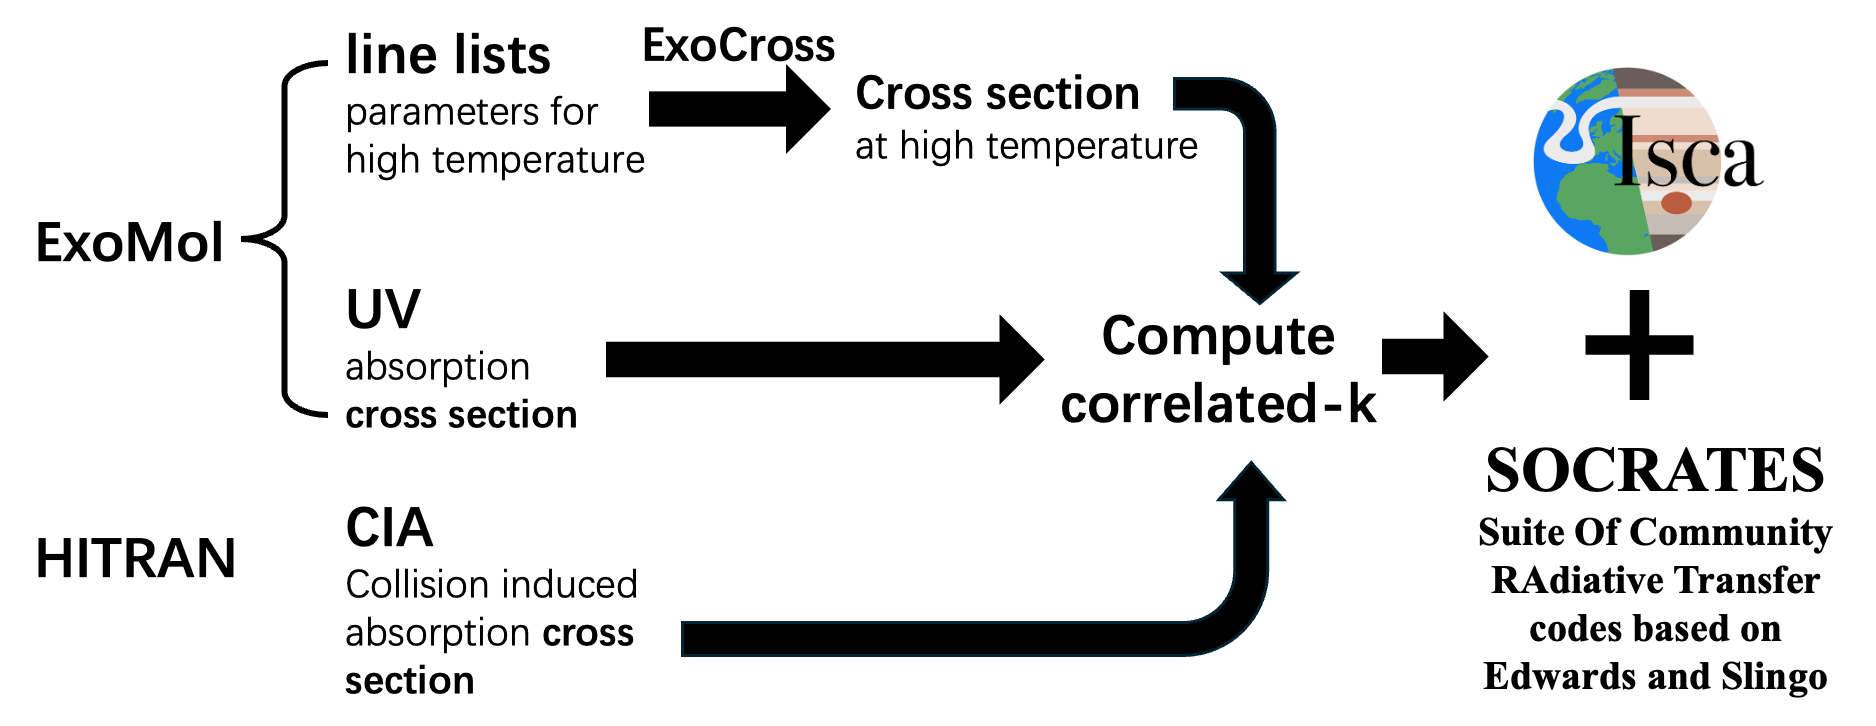
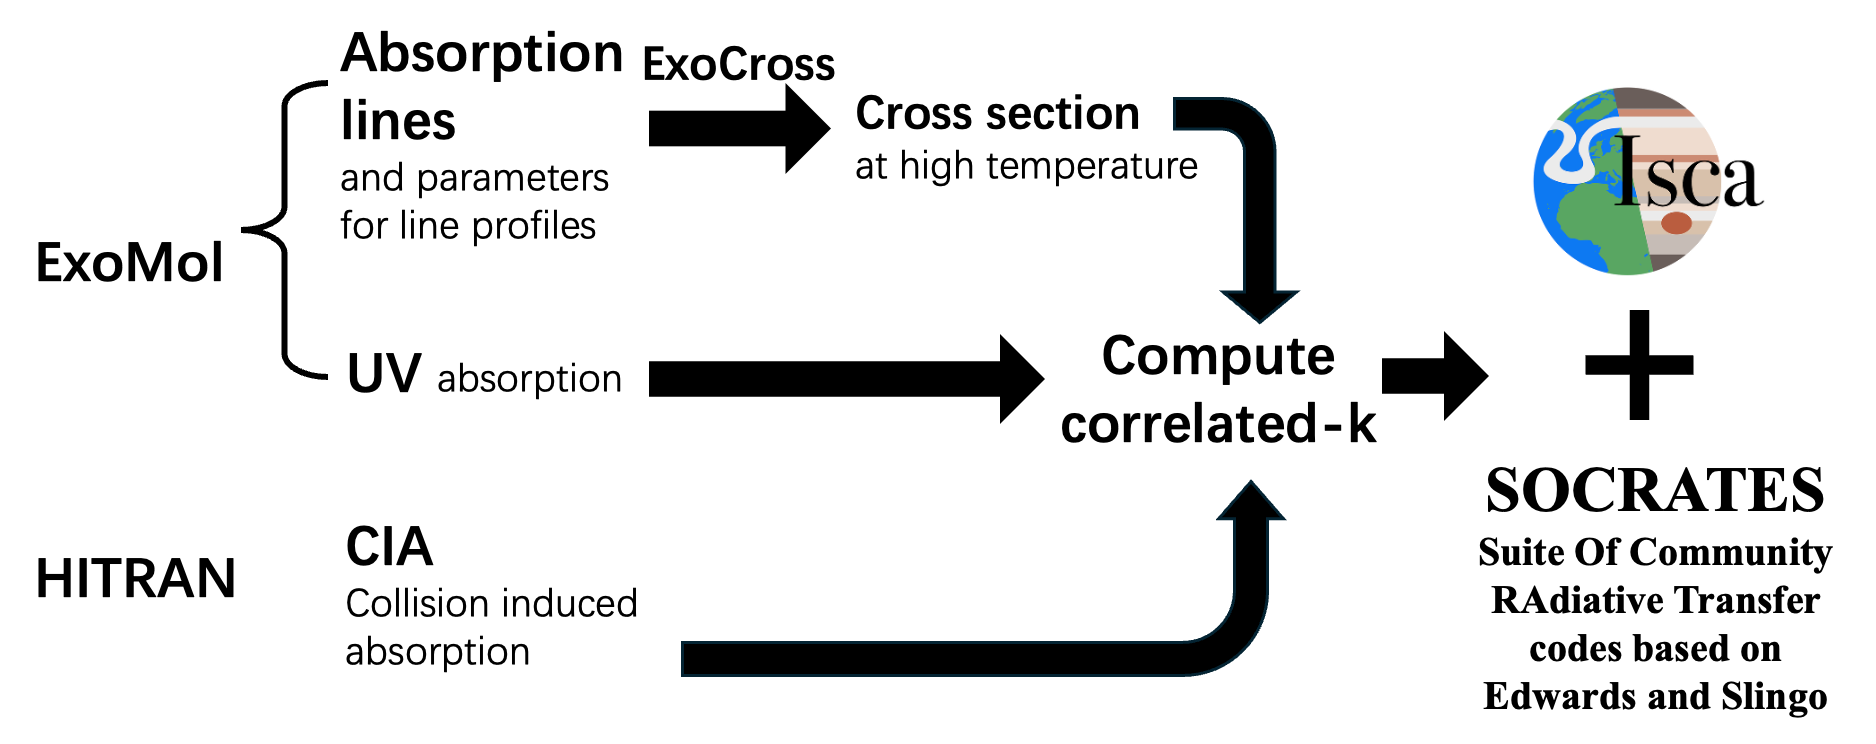
update research

diff --git a/_research/atm_hot_rocky.md b/_research/atm_hot_rocky.md
@@ -4,31 +4,22 @@ title: Atmospheres of Hot Rocky Planets with Ultra-Short Orbital Period
 Rocky exoplanets with ultra-short orbital period are ideal targets for observations and offer a unique opportunity to study planets in extremely hot environment. Due to atmospheric escape, these planets are more likely to be airless like Mercury or have a secondary atmosphere (non-hydrogen dominated) like Earth. Charaterizing secondary atmospheres of such exoplanets provides crucial insights into atmospheric escape, redox and equilibrium chemistry, and the exchange with the interior. 
 
 <div align="center">
-<img src="https://ruizhizhan.github.io/images/exoplanet_distribution.png" width="45%"><br>
+<img src="https://ruizhizhan.github.io/images/exoplanet_distribution.png" width="42%"><br>
 </div>
 <span style="font-weight: light; font-size: 0.8em;">Orbital periods and radii of confirmed exoplanets as of May 2025. The planets located in the red box are rocky exoplanets with ultra-short orbital periods. The color of each point represents the equilibrium temperature of the planet, ranging from 500 to 3,000 K. </span><br>
 
 Despite extensive observations, most current interpretations predominantly relied on 1D models with non-self-consistent heat redistribution or oversimplified 3D models with unrealistic radiative transfer. However, few 3D models with realistic radiative transfer have been applied to these hot (non-habitable) rocky exoplanets, mainly due to the incompatibility of standard GCM radiative transfer codes with the extremely high temperatures. 
 
 <div align="center">
-<img src="https://ruizhizhan.github.io/images/line_profile.png" width="80%"><br>
+<img src="https://ruizhizhan.github.io/images/line_profile.png" width="60%"><br>
 </div>
-<span style="font-weight: light; font-size: 0.8em;">Gaussian and Lorentz profile. $\alpha_G$ half-maximum 
-(Read more in <a href="https://hitran.org/docs/definitions-and-units/">HITRAN</a>)</span><br>
+<span style="font-weight: light; font-size: 0.8em;">Gaussian and Lorentz profile for absorption line broadening calculations.The coefficients of determination &alpha;<sub>G</sub> (half-width at half-maximum) and &alpha;<sub>L</sub> strongly depends on temperature (highlighted in red). More information on <a href="https://hitran.org/docs/definitions-and-units/">HITRAN</a>.</span><br>
 
-Here we perform non-grey GCM simulations using the custom correlated-k coefficients developed from the ExoMol database.
+Here we perform non-grey GCM simulations using the custom correlated-k coefficients developed from the <a href="www.exomol.com">ExoMol</a> database. We first use [ExoCross](https://exocross.readthedocs.io/en/latest/) to calculated the absorption cross section from the absorption lines at a wide range of temperatures and pressures. Then we develop custom correlated-k coefficients from the absorption cross section (a paper describing the correlated-k method [here](https://agupubs.onlinelibrary.wiley.com/doi/10.1029/90JD01945)) and validate them against line-by-line radiative transfer [PyRADS](https://github.com/danielkoll/PyRADS). We then perform non-grey GCM simulations, <a href="execlim.github.io/Isca/">Isca</a> coupled with <a href="code.metoffice.gov.uk/trac/socrates">SOCRATES</a> for planets including 55 Cancri e.<br>
 
-calculate the absorption cross section from <a href="www.exomol.com">ExoMol</a> line lists. We develop custom correlated-k coefficients from the absorption cross section and validate them against line-by-line radiative transfer. 
 <div align="center">
-<img src="https://ruizhizhan.github.io/images/cross_sec_co2.png" width="75%"><br>
+<img src="https://ruizhizhan.github.io/images/pipeline.png" width="85%"><br>
 </div>
-<font color=grey size=2em>Absorption cross section of CO<sub>2</sub> at Earth Temperature (300 K) and typical temperature on substellar point of 55 Cnc e (3500K) assuming 1 bar pressure. The two lines are clearly distinguished. So the standard GCM radiative transfer for Earth cannot be applied to 55 cnc e. </font><br><br><br>
-We then perform GCM simulations with non-grey radiative transfer, <a href="execlim.github.io/Isca/">Isca</a> coupled with <a href="code.metoffice.gov.uk/trac/socrates">SOCRATES</a>, to model the atmospheres on 55 Cancri e.<br>
-<div align="center">
-<img src="https://ruizhizhan.github.io/images/pipeline.png" width="95%"><br>
-</div>
-<font color=grey size=2em>The gas absorption in our model includes molecular spectrum (including UV absorption) and collision induced absorption (CIA). </font><br><br><br>
-Our simulations suggest the secondary atmosphere on 55 Cancri e should be <b>thick and carbon dioxide rich</b>.<br>
-Observations from Spitzer and JWST reported significant time variability in the secondary eclipse depth of 55 Cancri e. However, our result suggests that clearsky atmosphere variability is much weaker than observed.
-<br>
-</li>
+<font color=grey size=2em>The schematic of the pipeline of this work. The gas absorption in our model includes molecular spectrum (including UV absorption) and collision induced absorption (CIA). </font>
+
+We have some preliminary results for the reinterpretation of the JWST observations ([Hu et al. 2024](https://www.nature.com/articles/s41586-024-07432-x)) of 55 Cancri e. Stay tuned for our upcoming paper.
